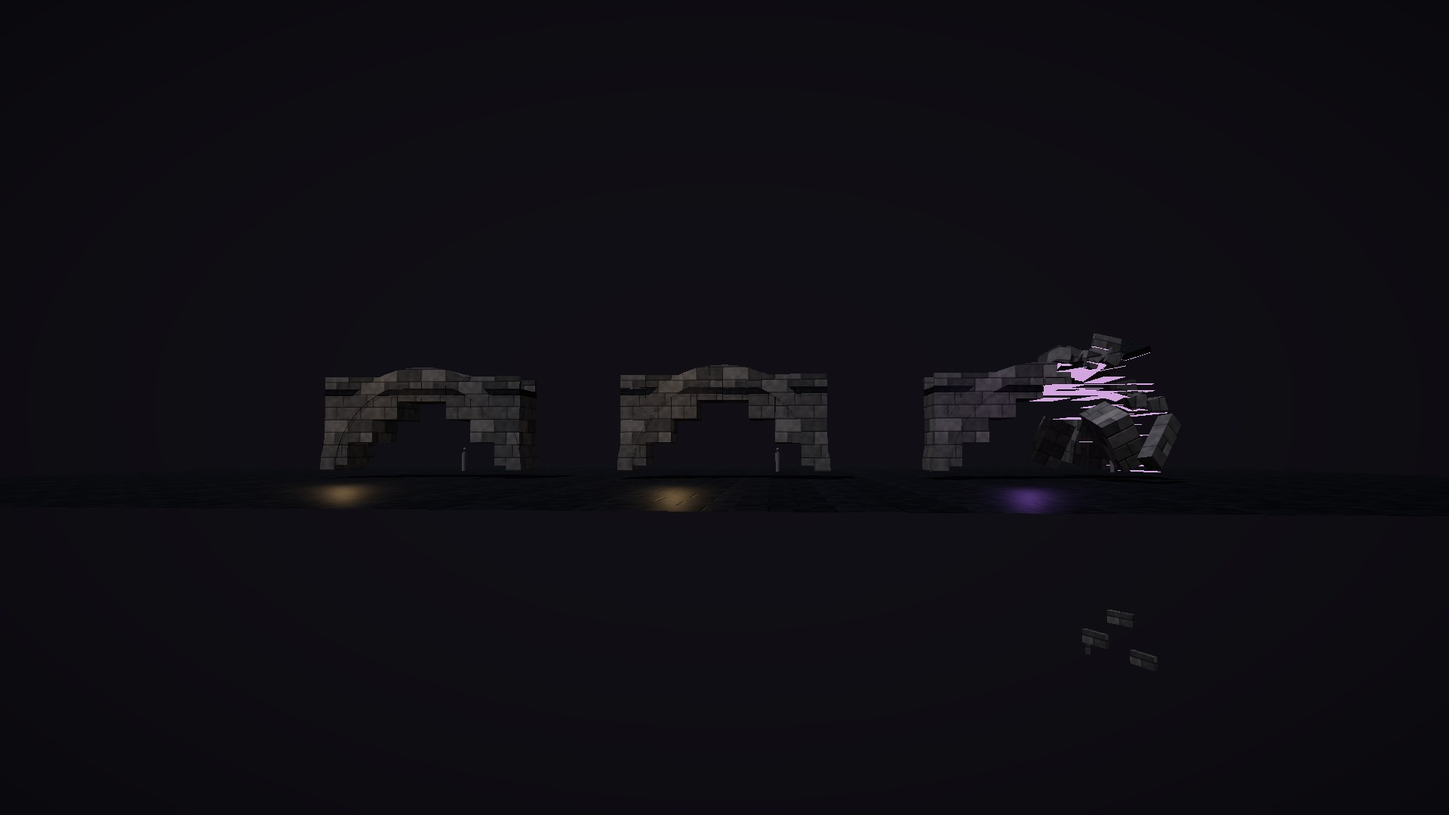
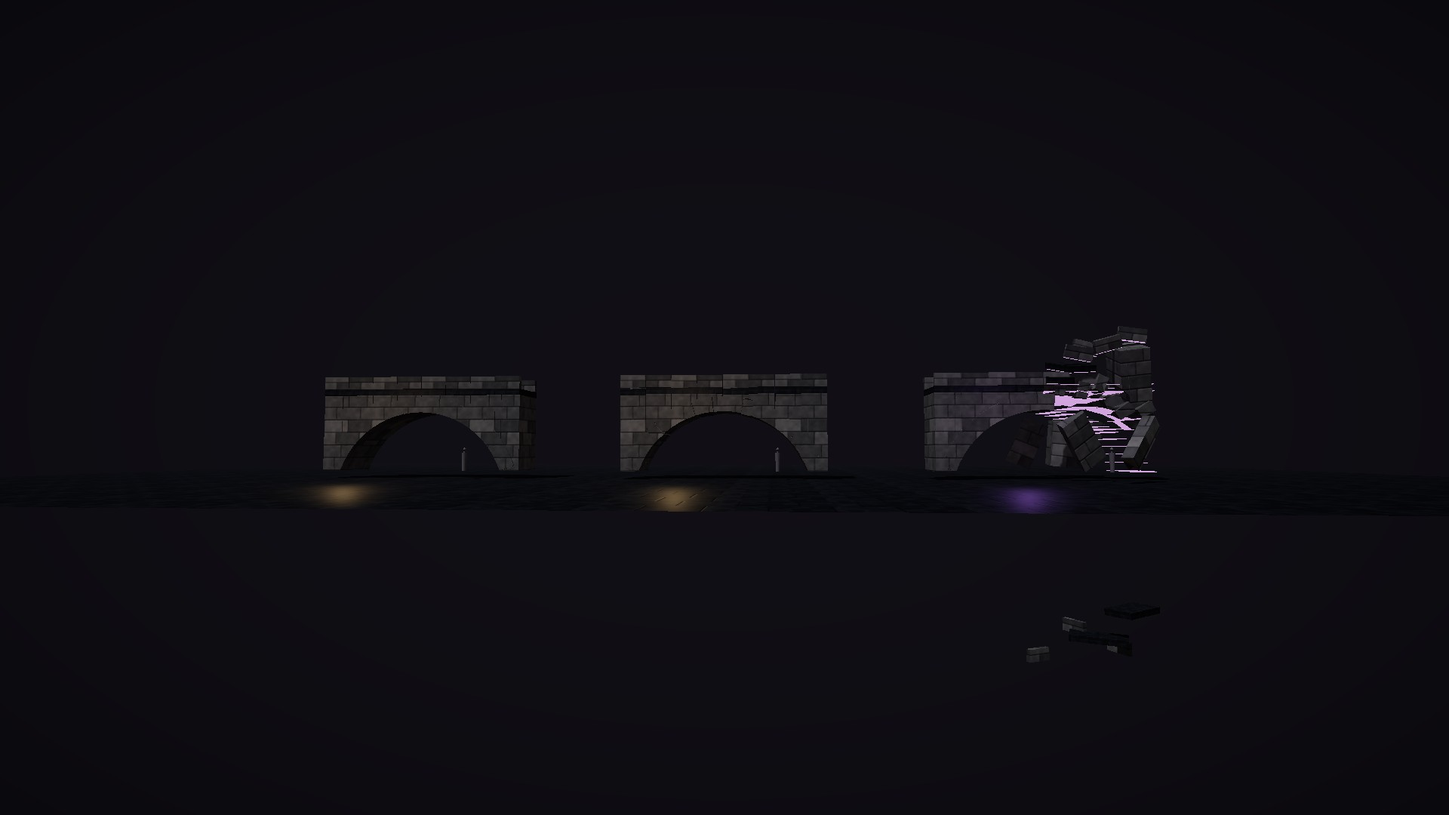
Look: Session 1818 — the gate kit's bridge: a segmental ring under its deck
Claude-Session: https://claude.ai/code/session_019eFMMpYDAgBmAhgtVTfiLq

diff --git a/docs/prototypes/levelup/gatekit.js b/docs/prototypes/levelup/gatekit.js
@@ -123,13 +123,24 @@ const BUILD = {
   stair() { const bl = [], W = 8, n = 12, rise = .35, run = .6; for (let k = 0; k < n; k++) for (const sx of [-1, 1]) bl.push(B([{ key: 'floor', geo: stoneBox(W / 2, rise * (k + 1), run, sx * W / 4, rise * (k + 1) / 2, -k * run, .4, .02) }], { flat: true }));
     for (const sx of [-1, 1]) for (let k = 0; k < n; k += 3) bl.push(B([{ key: 'dress', geo: stoneBox(.8, rise * (k + 3) + .9, run * 3, sx * (W / 2 + .4), (rise * (k + 3) + .9) / 2, -(k + 1) * run) }]));
     return { bl, axis: 'x', size: { w: W + 1.6, h: n * rise + .9, d: n * run } }; },
-  bridge() { const bl = [], L = 16, Wd = 4, ys = 0, hh = 5.5, dk = 6.2;
-    const inner = archCurve(L - 2, ys, hh, 0), outer = archCurve(L - 2, ys, hh, -1.2), n = inner.length - 1;
-    for (let i = 0; i < n; i += 2) { const j = Math.min(n, i + 2); bl.push(B([{ key: 'stone', geo: prism([inner[i], inner[j], outer[j], outer[i]], -Wd / 2, Wd / 2) }])); }
+  // Session 1818: the ring is segmental, 13 m over a rise of 4.6 m, its extrados 5.8 m at the crown, under the deck's underside at
+  // 5.95. archCurve's two-centred arch falls back to a semicircle when the rise is under half the span, which stood the ring 1.75 m up
+  // through the deck at the crown (the concept artist's note, Session 1103's vaults). The spandrels' beds follow the extrados, and the
+  // ends from the springing out are solid abutments.
+  bridge() { const bl = [], L = 16, Wd = 4, ys = 0, S = 13, hh = 4.6, RD = 1.2, dk = 6.2, top = dk - .25;
+    const R = (S * S / 4 + hh * hh) / (2 * hh), cy = ys + hh - R, t0 = Math.atan2(ys - cy, S / 2), nv = 24;
+    const at = (t, r) => [Math.cos(t) * r, cy + Math.sin(t) * r];
+    for (let i = 0; i < nv; i++) { const a = Math.PI - t0 - (Math.PI - 2 * t0) * i / nv, b = Math.PI - t0 - (Math.PI - 2 * t0) * (i + 1) / nv;
+      bl.push(B([{ key: 'stone', geo: prism([at(a, R), at(b, R), at(b, R + RD), at(a, R + RD)], -Wd / 2, Wd / 2) }])); }
     const nd = 8; for (let k = 0; k < nd; k++) { const x = -L / 2 + (k + .5) * L / nd; bl.push(B([{ key: 'floor', geo: stoneBox(L / nd, .5, Wd, x, dk, 0, .4, .02) }], { flat: true }));
       for (const sz of [-1, 1]) bl.push(B([{ key: 'dress', geo: stoneBox(L / nd, 1.0, .4, x, dk + .75, sz * (Wd / 2 - .2)) }], { flat: true })); }
-    // the spandrels: courses between the ring and the deck
-    for (let k = 0; k < nd; k++) { const x = -L / 2 + (k + .5) * L / nd, top = dk - .25, base = Math.max(0, Math.min(top - .5, hh + 1.2 - Math.abs(x) * .9)); if (top - base > .4) bl.push(B([{ key: 'stone', geo: stoneBox(L / nd, top - base, Wd - .2, x, (top + base) / 2, 0) }])); }
+    // the spandrels: courses between the ring and the deck, each bed on the extrados (a chord, its sag inside the ring), and past
+    // the springing down to the footing; a course that straddles the springing is cut there in two
+    const bed = x => Math.abs(x) > S / 2 ? ys : Math.max(ys, cy + Math.sqrt((R + RD) ** 2 - x * x));
+    for (let k = 0; k < nd; k++) { const x0 = -L / 2 + k * L / nd, x1 = x0 + L / nd, cuts = [x0, ...[-S / 2, S / 2].filter(c => c > x0 + .01 && c < x1 - .01), x1], parts = [];
+      for (let c = 0; c < cuts.length - 1; c++) { const a = cuts[c] + .015, b = cuts[c + 1] - .015, ya = bed(a), yb = bed(b);
+        if (top - Math.max(ya, yb) > .05) parts.push({ key: 'stone', geo: prism([[a, ya], [b, yb], [b, top], [a, top]], -Wd / 2 + .1, Wd / 2 - .1) }); }
+      if (parts.length) bl.push(B(parts)); }
     return { bl, axis: 'x', size: { w: L, h: dk + 1.25, d: Wd } }; },
   balcony() { const bl = [], L = 9, out = 2.2, y = 6, T = 1.0;
     for (let k = 0; k < 6; k++) { const x = -L / 2 + .8 + k * (L - 1.6) / 5; /* a corbel: deep at the wall, cut back to the gallery's edge */ const g = new THREE.BoxGeometry(.6, 1.4, out), P = g.attributes.position; for (let i = 0; i < P.count; i++) if (P.getY(i) < 0 && P.getZ(i) > 0) P.setY(i, P.getY(i) + 1.1); g.translate(x, y - .7, out / 2); g.computeVertexNormals(); worldUV(g, .25); bl.push(B([{ key: 'dress', geo: g }])); }

diff --git a/docs/backlog.md b/docs/backlog.md
@@ -638,7 +638,7 @@ Michael marked all 96 images of the intake on the review page: 63 KEEP and 33 NO
 - **Off the road** (the chunk scatter and points of interest, quest writer's leads; OG-124): overgrown arches by falls, a cave behind a waterfall, a shepherd's hut, a peat-cutting camp (Gatelands); a hunting cabin in snow pines, an ice cave mouth, a logging camp (the Mark); a coastal watchtower, a smuggler's cove, a ruined aqueduct (Aurenne, in its own plaster and tile, not Tuscan stone). Camps on the roads (merchants, hunters, pilgrims, charcoal burners, an abandoned expedition) and small mysteries with no marker: an overturned carriage, a lone grave under a ringed cross, strange tracks, a locked cellar. Finds in four tiers by time spent, minutes to hours. **The Gatelands' peat-cutting camp, Session 991 (prototype; OG-124, OG-014, OG-099):** `gatelandsPeatCamp` in `places.js`, `places.html?place=peat`. It is a hand-cut turf bank 36 m long on a raised bog: the face is cut about 1.3 m down in two spits, with a bench 0.8 m down, and there is water in the cutaway's hollows. On the bank lie about 420 sods spread and about 110 footed, with a turf barrow, a creel and the sleán. The rick stands by the gravel bog road, beside a sod bothy under roped thatch and a fire with a crane and kettle. It comes to 39,000 triangles in 20 meshes; `places.check.mjs` 119 of 119. Still open: the arches and the cave behind falls, the Mark's ice cave mouth, Aurenne's smuggler's cove, and the road camps. **The Gatelands' abandoned shepherd's hut, Session 997 (prototype; OG-124, OG-014, OG-077):** `gatelandsShepherdHut` in `places.js`, `places.html?place=shepherd`. It is a summer hut on the hill pasture, after the booley huts of Slievemore: 6.0 by 4.2 m of dry stone cut into a 1-in-7 slope, the west gable standing to its chimney, the east fallen in a heap, the roof gone with two rafters slid down onto the floor and the ridge pole among the rotted thatch. Beside it are a round fold 8.4 m across with its gate, its hurdle and a breach downhill, a rowan by the door, a lined spring under a slab hood, the worn track, bracken and foxglove. It comes to 31,000 triangles in 18 meshes; `places.check.mjs` 128 of 128. **The Mark's hunting cabin, Session 998 (prototype; OG-124, OG-025):** `markHuntingCabin` in `places.js`, `places.html?place=cabin`. It is a laft cabin of 61 notched logs, 3.8 by 4.6 m on corner stones, under a turf roof with 0.25 m of snow and crossed barge boards. The chimney smokes, the window is lit and antlers hang over the door. A stabbur on rat stones stands beside it, with steps stopped 0.44 m short. There are split wood under the eaves, a chopping block with its axe, a hide on its frame, snowshoes and trodden paths between banks of thrown snow, all in a clearing of 74 snowed spruce. It comes to 36,500 triangles in 17 meshes; `places.check.mjs` 136 of 136. **The Mark's abandoned logging camp, Session 999 (prototype; OG-124):** `markLoggingCamp` in `places.js`, `places.html?place=logging`. It is a winter felling left mid-season on a 1-in-4.5 slope over a frozen river. There are 50 stumps under snow, with an axe left in one, and a deck of 18 logs on two skids. A timber chute of paired logs runs 42 m down to the ice on trestles at one grade, with one length fallen beside its gap. There are also a gapahuk (log lean-to) with a bed of boughs and a cold fire, and a log sledge with a log chained on it. It comes to 33,000 triangles in 13 meshes; `places.check.mjs` 143 of 143. **The Mark's ice cave mouth, Session 1006 (prototype; OG-124, OG-121):** `markIceMouth` in `places.js`, `places.html?place=icemouth`. It is the outside of the ice cavern: a glacier's snout 17 to 20 m high between rock walls, banded with grit and fluted by runnels. A meltwater tunnel comes out under it, an arch 8 by 5.6 m narrowing over 18 m to 6 by 4.6 m, clear, then blue, then dark, with icicles that leave a man's head clear. The stream runs out over the gravel through a gap in a terminal moraine of boulders 26 m out, past a cairn, with calved blocks at the face's foot and crevasses on the snow above. It comes to 32,100 to 32,700 triangles in 12 meshes; `places.check.mjs` 151 of 151. **Aurenne's smuggler's cove, Session 1007 (prototype; OG-124, OG-121):** `aurenneCove` in `places.js`, `places.html?place=cove`. It is a narrow inlet between pale limestone cliffs 20 m high, 14 m across at its head and opening to 38 m. At its head is a beach of sand 15 m long, with three boathouses in the west cliff's foot behind plastered fronts. Their doors are blue, 3 by 3 m; the middle one is open on the dark and the third has a slip into the sea. Bales, amphorae and casks lie on the sand, and a rowing boat is drawn up. A stair of 105 steps, cut half into the east cliff and built out on a wall, runs to the top with a landing every 18 and a parapet. On the top stands a lookout's hut with its window to the sea (`&night`, its lamp lit), and Aurenne's sloop lies at anchor. It comes to 24,900 triangles in 16 meshes, 48,700 with the sloop; `places.check.mjs` 158 of 158. Still open: the arches and the cave behind falls (Gatelands) and the road camps. **The Gatelands' falls, Session 1012 (prototype; OG-124):** `gatelandsFalls` in `places.js`, `places.html?place=falls`. It is a glen ending in a limestone head-wall 11 to 12 m high, banded and undercut 2.4 m round the fall, after Glencar and Ess-na-Larach. The river leaves the lip 5 m wide and lands 3 m out in a pool 12 m across and 2.6 m deep. A rock shelf 1.2 m over the pool runs under the overhang, behind the curtain (3.4 m or more of water between it and the walker), to a cave 3.4 by 3.2 m that narrows over 10 m into the dark (Seljalandsfoss). Down the glen, the path passes through the first bay of a ruined arcade of three round arches on square piers, under ivy, with the fourth arch fallen in the grass (Glendalough by Poulanass). Oak and ash stand on the sides, with ferns by the water. It comes to 38,000 to 38,500 triangles in 18 meshes; `places.check.mjs` 167 of 167. Still open in OG-124: the road camps. **The Gatelands' charcoal burners' camp, Session 1016 (prototype; OG-124):** `gatelandsCharcoalCamp` in `places.js`, `places.html?place=charcoal`. It is a colliers' camp by a road through oak and hazel coppice, after the Lake District's and the Weald's. A stack of sammel 4.8 m across and 1.9 m high stands on its black hearth under about 110 sods, smoking from its flue and vents, with three hurdles to windward and a ladder on its flank. On a second hearth, a burn is drawn and cooling, with seven sacks filled and a riddle. There are 5 m of cordwood and a beehive hut of sods with a door of 0.84 by 1.6 m and its fire, and a cart on the road. It comes to 38,400 to 39,000 triangles in 19 meshes; `places.check.mjs` 176 of 176. **The Gatelands' merchants' halt, Session 1021 (prototype; OG-124):** `gatelandsMerchantCamp` in `places.js`, `places.html?place=merchants` (`&dusk` the lantern and the fire lit). It is a carriers' halt on a green by a ford, after the old roads' tilt waggons and the drovers' stances. Two tilt waggons stand on four spoked wheels each, under canvas 2.8 m to the crown, their shafts down. A canvas fly is laced to the first waggon's tilt and carried 3 m out on two guyed poles, over two trestles of cloth bolts in three dyes and of crocks and a chest, with a lantern on the right pole. There are a fire with an iron crane and pot and two seat logs; a ridge tent 2.6 by 2.2 m with its door to the fire; a picket line at 1.3 m with hay and buckets; and casks, wool bales and crates stacked by the second waggon. A stream in a gravel bed crosses the road at a ford 0.19 m deep, with six stepping stones and a watering place eased into its west bank. A thorn hedge, ash and alder stand round it. It comes to 35,800 to 36,200 triangles in 20 meshes; `places.check.mjs` 185 of 185. **The Mark's hunters' camp, Session 1022 (prototype; OG-124):** `markHuntersCamp` in `places.js`, `places.html?place=hunters` (`&dusk` the fires glowing). It is a party's autumn camp by a road in birch and pine heath. A tent of hides on a cone of 12 poles stands 4.8 m across, its poles crossing at 3.4 m and the cover rising to 2.85 m; its door is 1.2 m wide and 1.5 m high under the rolled door hide, with a fire and bedding inside. There is a pole rack at 1.8 m hung with 25 strips of meat over a slow fire, a hide laced into a leaning frame, and a game pole lashed between two pines at 2.6 m with an empty gambrel and a tub. A woodpile against a boulder, a chopping stump with its axe and a rack of three spears stand among heather and granite. It comes to 24,600 to 24,800 triangles in 15 meshes; `places.check.mjs` 194 of 194. **Aurenne's abandoned expedition, Session 1023 (prototype; OG-124):** `aurenneExpedition` in `places.js`, `places.html?place=expedition`. It is a dig's camp on a dry hillside, left in haste weeks ago. On a terrace cut into the slope are a ridge tent still standing, its door flap torn, and a second fallen from its front pole. There are a cold fire with its pot on its side and a stool knocked over; a handcart down on one side with its other wheel lying flat and its crates spilled, one burst; and a folding table on its side, a fallen surveyor's tripod, a lantern and papers under stones. Above an old dry-stone terrace wall, reached by a ramp through its gap, a trench 6 by 1.5 m and 1.6 m deep is cut, with a ladder, a spoil heap with a pick and shovel left in it, and a column drum lifted out onto its lip. Olives, cypresses, maquis and pale limestone stand around it. It comes to 27,700 to 27,800 triangles in 16 meshes; `places.check.mjs` 202 of 202. What they found and why they ran is the quest writer's. **The Gatelands' overturned carriage, Session 1025 (prototype; OG-124 panel 6, the first small mystery):** `gatelandsCarriage` in `places.js`, `places.html?place=carriage`. The game's road coach (S261) at true size lies on its near side in a field over the ditch from a lane: its right wheels up and flat, the fore-carriage turned, the right door standing open past upright onto the dark inside, the near rear wheel broken off and the near front one lying flat, the pole snapped, the four traces cut short at the splinter bar, the far lamp still burning. Two gouges run from the lane over the ditch to it; the whip lies in the road and a hat in the ditch; the luggage is thrown towards a dry-stone wall, one trunk burst with its clothes out. It comes to 35,900 to 36,300 triangles in 19 meshes; `places.check.mjs` 210 of 210. Who was in it is the quest writer's. **The Gatelands' locked cellar, Session 1026 (prototype; OG-124 panel 6):** `gatelandsCellar` in `places.js`, `places.html?place=cellar`. A cottage long fallen in a field: footings of rubble stone 0.3 to 0.85 m high in nettles, the west gable whole to its apex at 4.6 m with its stack, its fireplace and a patch of limewash, rubble along the walls, an elder against the east end. In the floor at the east end is a cellar hatch in a dressed-stone kerb, two grey oak leaves on strap hinges, and across them a chain held by a new, bright padlock. The grass is worn from the lane through the doorway to the hatch and nowhere else. It comes to 21,900 to 22,100 triangles in 12 meshes; `places.check.mjs` 216 of 216. Who comes, and what is below, is the quest writer's. **The Gatelands' perched stone, Session 1031 (prototype; OG-124 panel 6, "an odd rock"):** `gatelandsErratic` in `places.js`, `places.html?place=erratic`. A bare hill of limestone pavement after the Burren: about 250 clints in two sets of joints, cut by grykes 0.12 to 0.26 m wide and 0.85 m deep with hart's-tongue in them, running out into the turf at a ragged edge. On it a boulder of a dark stone that is not the hill's, 2.2 to 2.5 m high, sits on a waisted pedestal of the pale limestone 0.5 to 0.8 m high and overhangs it all round (after the Norber erratics: the ice left it, the rain took the pavement down except where it kept it dry); a smaller stranger lies nearby. A lace wall of single slabs with daylight through it crosses the hill above, hazel grows from the grykes, a hawthorn is bent by the west wind, ash stand by a green road. It comes to 37,100 to 38,100 triangles in 11 meshes; `places.check.mjs` 223 of 223. Whether it is a lead is the quest writer's. **The Mark's unfinished camp, Session 1032 (prototype; OG-124 panel 6):** `markUnfinishedCamp` in `places.js`, `places.html?place=unfinished`. A camp begun in a spruce clearing by a road and never finished: the ridge tent's back pole stood and guyed with the ridge pole leaned on it and the canvas still rolled at its foot, the front pole, pegs and mallet laid out, a bedroll half unrolled; a fire laid on birch bark in its ring and never lit, the kettle by it; a pulk half unloaded with its shafts down; the axe left in the chopping round, a few billets split, brush gathered. Snow has fallen on all of it, and there is no track in it, in or out. It comes to 22,200 to 22,300 triangles in 13 meshes; `places.check.mjs` 230 of 230. Who, and why they stopped, is the quest writer's. Still open: the pilgrims' rest (it wants the canon on whose pilgrims, and to where) and the other small mysteries (the lone grave wants the canon on who is buried and why, since the dead go to the gates; strange tracks, whose are the bodies builder's). **Words drafted, 3 Nov 2026** (the quest writer's *Off the Road, I*, `docs/quest_drafts.md`, unapproved): the carriage, the cellar, the expedition, the unfinished camp, the perched stone and the lone grave (an Old Blood burial under a holed stone, the name kept from the gates). Each waits on its place being put in the game (look builder); the strange tracks and the pilgrims' rest are still owed.
 - **The quest props the systems builder left as placeholders** (look builder; `87-world-quests.js` builds them, the prop goes in a world file and the quest code calls it): ~~the Ashfeld's flagstone~~ — done, Session 1360 (`flagstoneProp`, 82); ~~the Gate-Blade's stone~~ — done, Session 1361 (`bladeStoneProp`, 82); ~~the ring's cairn~~ — done, Session 1372 (`ringCairnProp`, 82); ~~the Shuttle in its gate~~ — done, Session 1373 (`shuttleProp`, 56); ~~the great gates' knot over the ring's dais~~ — done, Session 1400 (`greatKnotProp`, 56, on the new look: Michael's A on #680, the knot within reach 2.1 m over the dais, the 30.8 m ring behind it fitted to the dome; prototyped Session 1376, `greatKnot`, props.js). Every placeholder is now a prop. ~~The Waylamp, which had no mesh at all (the sight line spoke of a lamp nobody could see)~~ — done, Session 1598 (`waylampProp`, `waylampSpot`, `waylampPropTick`, 82: an iron bracket and a lantern of old brass round lit horn panes, beside its inn's door where the wall is clear; the bracket left empty while the lamp is carried; 492 triangles in 2 draws and a halo; `tests/waylamp` +2).
 - **Under the sea** (`85-world-sea.js`; OG-125): drowned arches under a coastal town, wrecks at three depths and two lying together from one fight, sunken villages and temples, gate structures still lit under the sea (Uisce, the Mouth), sea caves with air pockets and tunnels between them, a vertical shaft to air, a whale skeleton, and the Abyss at the end (the Root). Air, currents and depth as the risks; Water Breathing and a breathing draught as the gear, never a rebreather or a brass suit. **Begun, Session 1100 (prototype):** the drowned arches under a coastal town, `docs/prototypes/levelup/undersea.js` and `undersea.html?view=swim|arches|alcove|boat|above&water=…`: a quay with two kit houses, an arcade of seven round arches 34 m out with its deck 1.75 m under (a galleon passes over), four bays whole and the deep end fallen, a sand floor from 4.5 to 16 m with a reef, 129 kelp, a sunken rowing boat, a niche behind the kelp with a chest; `undersea.check.mjs` 16 of 16. The water's colour and clarity asked as **DECISION #419**. ~~Wrecks at three depths~~ — done, Session 1101 (prototype: `wreckSite`, `undersea.html?place=wrecks`: a Gatelands sloop thrown on a reef at 9.5 m, a Gatelands cog and the Mark cutter that rammed her at 16 to 18 m, an Aurenne galleon upright and reef-grown at 25.8 m, each settled by her planking into the sand, sails and rigging gone, cargo and a chest about her; `undersea.check.mjs` 27 of 27); ~~their damage~~ — done, Session 1102 (masts broken to stumps with their tops and yards gone and five spars on the sand, the cog stove in where the cutter's stem is, the galleon's starboard quarter fallen in; 30 of 30). ~~Sea caves with air pockets~~ — done, Session 1103 (prototype: `seaCave`, `undersea.html?place=cave&view=mouth|tunnel|pocket|top`: a mouth 9 m down in a cliff, a winding tunnel rising 30 m in to a chamber with 5.5 m of air over its water, a shingle shelf with 48 glowing flowers, a shaft 3 m across up to the land, a side tunnel to a second pocket; `undersea.check.mjs` 41 of 41). ~~The sunken village~~ — done, Session 1104 (prototype: `sunkenVillage`, `undersea.html?place=village&view=lane|house|church|tower`: seven of the kit's cottages along a drowned lane at 11 to 15 m, roofless and broken at ragged heights, the town church roofless at 16 m, its round tower whole with its cap 15.7 m over the sea; `undersea.check.mjs` 49 of 49). ~~The amphitheatre, temples and bridge~~ — done, Session 1107 (prototype: `sunkenQuarter`, `undersea.html?place=quarter&view=temple|bridge|theatre|wide`: a drowned Aurenne quarter, a three-arched bridge 11.65 m under with its middle span fallen onto the river bed, a theatre of nine tiers with one wedge fallen and its stage wall and columns broken, the town church at 23 m with its dome's crown and east half fallen in and its tower broken by the new `clipMesh`; `undersea.check.mjs` 61 of 61). ~~The village's breaks along the stone~~ — done, Session 1108 (`clipMesh` with `fine` and `courses`: walls break in stepped courses of 0.3 m, not slants along the slabs' triangles; 61 of 61). ~~Their tops closed~~ — done, Session 1109 (`clipMesh`'s `capT` lays the slab's thickness as a level top along the break; `undersea.html?place=village&view=walls`; 62 of 62). ~~The whale skeleton~~ — done, Session 1118 (prototype: `whaleFall`, `undersea.html?place=whale&view=whale|skull|cage|over`: a great whale's bones on her left side on sand at 31 to 32 m, 19.3 m from the rostrum's tip to the tail; 46 vertebrae settled in a scour hollow, the last nine scattered; a cage of fourteen ribs on her upper side, nine standing 1.3 to 2.2 m and down into the sand, four midway fallen so there is a way in 1.1 m wide; the skull upright, its two jaws fallen 5.8 m apart; a flipper laid out on the sand; 44,286 triangles in 2 draws; `undersea.check.mjs` 72 of 72). ~~Its bones shaped~~ — done, Session 1120 (centra as spools with a neural arch, a raked spine and tapered processes; the rostrum a broad crowned plate; 50,726 triangles; 72 of 72). Owed: the lit gate structures (Uisce, card F5) and the Abyss (the Root).
-- **One piece in three conditions** (card F5 and card F6's kit, `56-dungeon-build.js`; OG-126): a kit of slabs, walls, arches, pillars, vaults, stairs, bridges, balconies, shafts, chasm edges and script panels, each in a school's dress and in three conditions (whole; cracked and leaning; broken and floating with violet light in the seams). Six layouts for the generator: a linear descent, a branching labyrinth, a hub with shortcuts back, a vertical complex of shafts, a ring of loops, a cave network. Room-and- corridor plans for crypts and caves; a gate's floors in slabs of 2 to 3 m and its spaces at §2's size. **Begun, Session 1097 (prototype):** `docs/prototypes/levelup/gatekit.js` and `gatekit.html?view=kit|piece|hall`: eight pieces at the nave's measures (slab, wall, arch, pier, stair, bridge, balcony, panel) made of their stones, one seeded rule a condition (whole; cracked, leaning 1.5 to 3° with slipped stones and cracks; broken, stones floating or fallen above a ragged line, a violet seam at every seat), dressed by the six schools; `gatekit.check.mjs` 21 of 21. What the floating stones do in the game asked as **DECISION #417**. ~~Vaults, shafts, chasm edges and railings~~ — done, Session 1098 (prototype: `vault`, a rib vault over any bay, the nave vaulted at 21.3 to 33.3 m; `shaft`, a well 6 m across and 12 m deep; `edge`, a chasm's lip whose face below 3.5 m never comes loose; `rail`; `gatekit.check.mjs` 26 of 26). Owed: the six layouts (a generator's, with the systems builder).
+- **One piece in three conditions** (card F5 and card F6's kit, `56-dungeon-build.js`; OG-126): a kit of slabs, walls, arches, pillars, vaults, stairs, bridges, balconies, shafts, chasm edges and script panels, each in a school's dress and in three conditions (whole; cracked and leaning; broken and floating with violet light in the seams). Six layouts for the generator: a linear descent, a branching labyrinth, a hub with shortcuts back, a vertical complex of shafts, a ring of loops, a cave network. Room-and- corridor plans for crypts and caves; a gate's floors in slabs of 2 to 3 m and its spaces at §2's size. **Begun, Session 1097 (prototype):** `docs/prototypes/levelup/gatekit.js` and `gatekit.html?view=kit|piece|hall`: eight pieces at the nave's measures (slab, wall, arch, pier, stair, bridge, balcony, panel) made of their stones, one seeded rule a condition (whole; cracked, leaning 1.5 to 3° with slipped stones and cracks; broken, stones floating or fallen above a ragged line, a violet seam at every seat), dressed by the six schools; `gatekit.check.mjs` 21 of 21. What the floating stones do in the game asked as **DECISION #417**. ~~Vaults, shafts, chasm edges and railings~~ — done, Session 1098 (prototype: `vault`, a rib vault over any bay, the nave vaulted at 21.3 to 33.3 m; `shaft`, a well 6 m across and 12 m deep; `edge`, a chasm's lip whose face below 3.5 m never comes loose; `rail`; `gatekit.check.mjs` 26 of 26). Owed: the six layouts (a generator's, with the systems builder). ~~The bridge's ring stood 1.75 m up through its deck (`archCurve` fell back to a semicircle; the concept artist's note, S1103)~~ — done, Session 1818 (prototype: a segmental ring of 13 m rising 4.6 m, its extrados 0.15 m under the deck, the spandrels bedded on it; `gatekit.check.mjs` 26 of 26).
 
 ### L11. Play (the third round; Michael's note, above, for every item)
 - **Double jump and air dash, unlocked** (the systems designer folds it into `platforming.md` and `skills-and-perks.md`, then the systems builder; OG-131, OG-134). Michael (review): “I do really really want to keep the idea of double jumping and air dashing though as unlockable abilities/perks.” The sheets put the double jump at Acrobatics' Expert and a burst in mid-air at its Master, which fits the Morrowind book's perks at 25/50/75/100. Owed by the designer: the numbers (height, distance, cooldown), how each is unlocked, and how they sit with platforming B (timed jumps kept off the main quest's path, no climbing). **Build sheet written, 16 Oct** (`docs/design/double-jump-and-dash-build.md`): the step sets the rise to 4.5 m/s (apex 1.77 m, gaps 4–4.8, 12 stamina), the dash 3.0 m in 0.2 s (gaps 6–7.5, 20 stamina), once a flight each; the head stops at ceilings; walls carry the no-mantle flag. Two systems sessions and half a bodies session; the air-speed cap is asked as a DECISION. ~~**Session 1 (the step, the head at the ceiling, the fall's count)**~~ — **done, Session 1009** (`tests/airstep`: 1.666 m at 75 and 1.77 at 100, 12 stamina, once a flight, a held Space never; the head stops at a room's ceiling and a dungeon's; a jump is 0.84 m at 20 fps and at 60). ~~**Session 2, the dash**~~ — **done, Session 1011** (`tests/airdash`: 3.0 m level in 0.2 s at 60 fps and at 20, toward the keys or on, 20 stamina, once, none over 70% load, stopped 0.25 m short of a dungeon wall; the dash near the ground is the landing roll). ~~The air-speed cap~~ — **done, Session 1027** (Michael's A on #370; `tests/aircap`: 4.7 m/s in the air at 6.17 and 9.26 on the ground, the take-off frame capped too; gaps 2.87, 3.45, 4.84, 4.98, the same at 20 fps). ~~The bodies builder's tuck and lean~~ — **done, Session 1594** (`airPose` in `16-viewmodel.js`, read off `AIRSTEP` and `AIRDASH`: the knees to the chest after the step, the body leant into the dash about its middle, `tpAirLean`; the hands' dip in first person, `vmAirDip`; `f10motion` +2 checks; `docs/prototypes/f10/f10-air-*.jpg`). Owed: the one line the first time each is held (the quest writer's words).

diff --git a/docs/devlog/1818.md b/docs/devlog/1818.md
@@ -1,0 +1,29 @@
+## v80 — Session 1818 — The gate kit's bridge: a segmental ring under its deck
+The concept artist's Session 1103 (`vaults.js`, what a gate keeps, #1092) left the look builder a note: the gate kit's `bridge`
+(`docs/prototypes/levelup/gatekit.js`, Session 1097, OG-126) has its ring standing up through its deck at the crown, which buries a
+person standing on it. The vault's door bridge had to be built as a causeway of its own because of it.
+
+The cause was in the curve, not the stones. The bridge asked `archCurve` (the gate's two-centred pointed arch) for a span of 14 m
+rising 5.5 m. A pointed arch cannot rise less than half its span, so the curve fell back to a semicircle: the intrados crown stood
+at 7 m and the extrados at 8.2, while the deck's underside is at 5.96 and its top at 6.44. The ring stood 1.75 m proud of the
+walking surface, and the spandrels, which were boxes cut by a straight-line guess at the ring, left holes either side of it.
+
+The ring is now segmental, which is what a road bridge of this proportion is: a span of 13 m at the springing, rising 4.6 m, on a
+radius of 6.89 m, in 24 voussoirs 1.2 m deep with radial joints. Its extrados crowns at 5.8 m, a 0.15 m course under the deck. The
+spandrels' beds follow the extrados (each 2 m course a chord, its sag inside the ring), and past the springing they run down to the
+footing as solid abutments; a course that straddles the springing is cut there in two. The deck, the parapets, the length (16 m),
+the width (4 m) and the deck's height (top at 6.45 m) are unchanged, so the vault's two kit bridges at −6.45 still meet its floor
+with their decks at 0. The three conditions work as before: cracked 64 crack lines and no lean, broken 16 stones afloat and 10 fallen.
+The prototype only: the game's `GK_BUILD` (`38-kit.js`) has no bridge.
+
+### Verified (headless Chromium)
+- `gatekit.check.mjs` 26 of 26, one of them new: the bridge's highest stone is 5.95 m, under its deck (5.96 to 6.44 m), with 4.6 m clear
+  under the crown. The same check on the old bridge fails: its highest stone at 8.2 m.
+- The bridge is 696 triangles whole (3 draws), 824 cracked, 1,200 broken; all 36 builds still under budget (108 to 3,648 triangles,
+  6 draws or fewer). `gatekit.html?view=piece&piece=bridge` renders with no page errors.
+- Picture: `docs/prototypes/levelup/gatekit-bridge.jpg` retaken (whole, cracked, broken).
+
+### Needs eyes
+- The concept artist's vault can now use the kit's bridge for its whole door bridge in place of its own causeway; that is their file.
+- A segmental arch is flatter than the gate's pointed ones. Inside a gate it may want a pointed ring on a deeper bridge instead; that
+  would be a second kind (`bridge` with `o.pointed`), not a change to this one.
